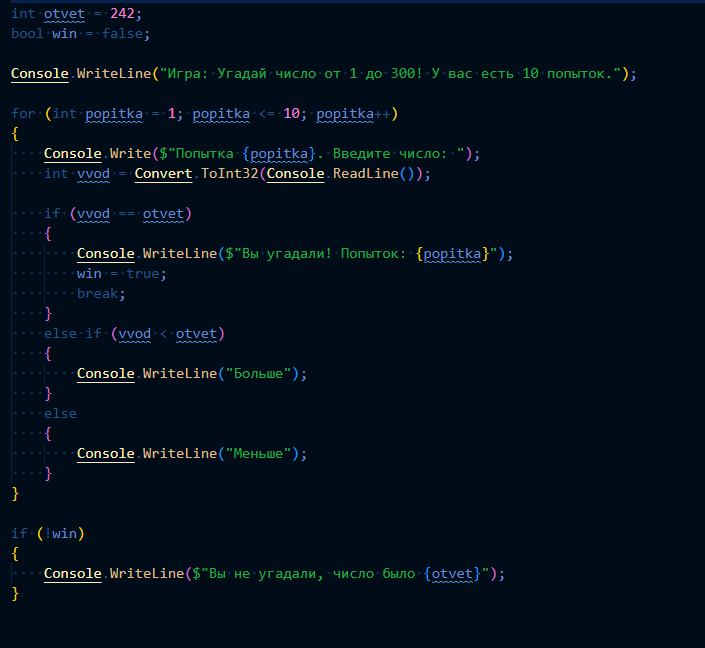
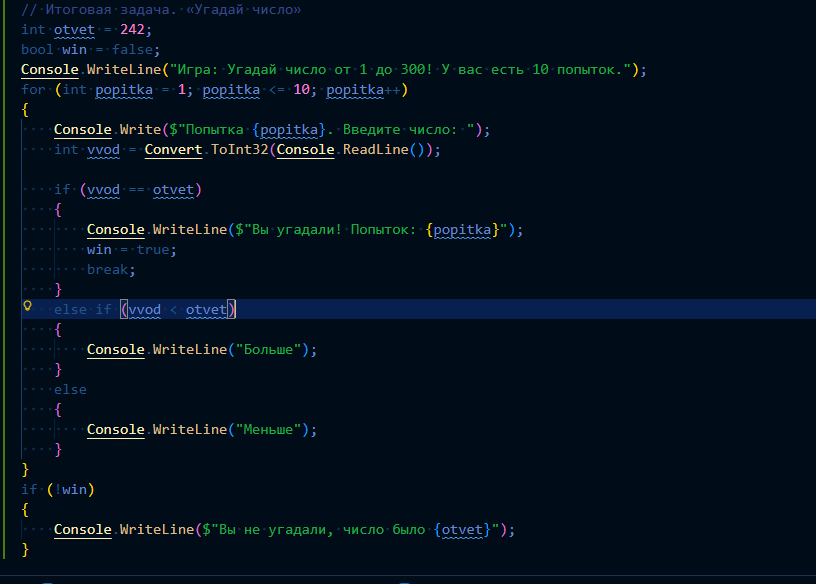
Complete Lab06

Changed region(s): [[0.0, 0.0, 1.0, 0.9555], [0.6553, 0.2158, 0.6865, 0.2466]]

diff --git a/Program.cs b/Program.cs
@@ -97,14 +97,11 @@
 // // Итоговая задача. «Угадай число»
 // int otvet = 242;
 // bool win = false;
-
 // Console.WriteLine("Игра: Угадай число от 1 до 300! У вас есть 10 попыток.");
-
 // for (int popitka = 1; popitka <= 10; popitka++)
 // {
 //     Console.Write($"Попытка {popitka}. Введите число: ");
 //     int vvod = Convert.ToInt32(Console.ReadLine());
-
 //     if (vvod == otvet)
 //     {
 //         Console.WriteLine($"Вы угадали! Попыток: {popitka}");
@@ -139,3 +136,32 @@
   }
   Console.WriteLine($"Сумма цифр: {sumchisel}");
   Console.WriteLine($"Количество цифр: {countchisel}");
+
+// Итоговая задача. «Угадай число»
+int otvet = 242;
+bool win = false;
+Console.WriteLine("Игра: Угадай число от 1 до 300! У вас есть 10 попыток.");
+for (int popitka = 1; popitka <= 10; popitka++)
+{
+    Console.Write($"Попытка {popitka}. Введите число: ");
+    int vvod = Convert.ToInt32(Console.ReadLine());
+
+    if (vvod == otvet)
+    {
+        Console.WriteLine($"Вы угадали! Попыток: {popitka}");
+        win = true;
+        break;
+    }
+    else if (vvod < otvet)
+    {
+        Console.WriteLine("Больше");
+    }
+    else
+    {
+        Console.WriteLine("Меньше");
+    }
+}
+if (!win)
+{
+    Console.WriteLine($"Вы не угадали, число было {otvet}");
+}
